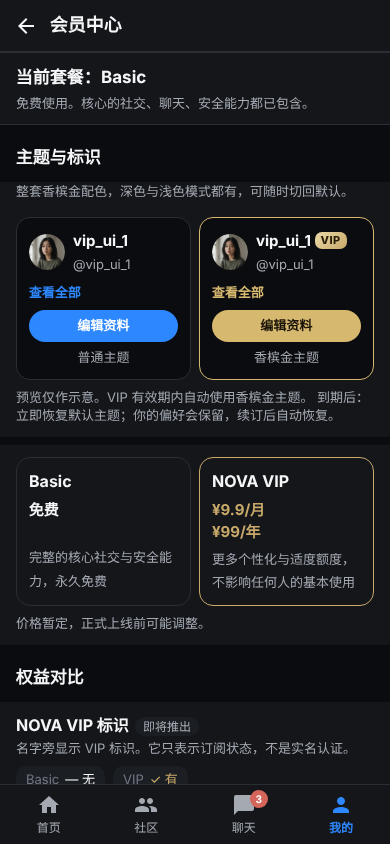
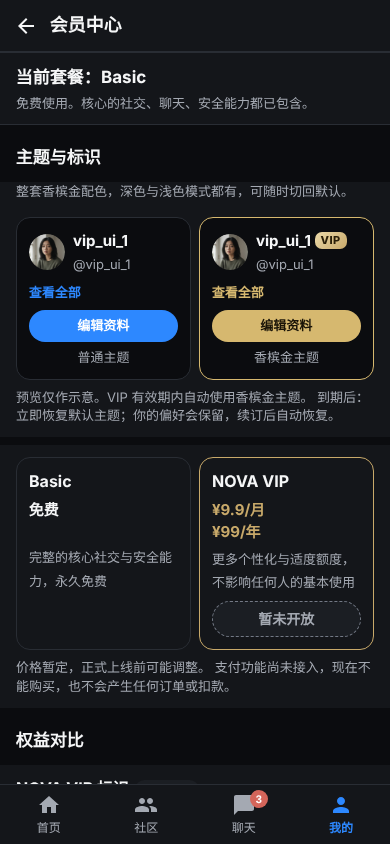
M2.4.6 开通按钮与价格占位
禁用的「暂未开放」；无购买/订单接口；浏览器 14/14、服务端 32/32、前端演示 190/190

diff --git a/dist/nova_v5.html b/dist/nova_v5.html
@@ -48,7 +48,7 @@ small{color:var(--t2);font-size:13px}
 .ppl button{flex:none;width:60px;font-size:12px;color:var(--t2);display:flex;flex-direction:column;align-items:center;gap:4px}
 .ppl .av{outline:2px solid var(--ac);outline-offset:2px}
 .pb{height:44px;padding:0 20px;border-radius:22px;background:var(--ac);color:var(--onac);font-weight:700;flex:none}.pb:active{transform:scale(.97)}
-.pb:disabled{opacity:.4}.pb.s{background:var(--s2);color:var(--tx)}.pb.d{background:var(--dg)}.pb.sm{height:36px;padding:0 14px;font-size:14px}
+.pb:disabled{opacity:.4}.pb.off:disabled{opacity:1;background:var(--s2);color:var(--t2);border:1px dashed var(--t3);width:100%;height:36px;padding:0;margin-top:8px;font-size:14px;cursor:not-allowed}.pb.s{background:var(--s2);color:var(--tx)}.pb.d{background:var(--dg)}.pb.sm{height:36px;padding:0 14px;font-size:14px}
 .inrow{flex:none;display:flex;gap:6px;align-items:center;padding:8px 8px 8px 12px;background:var(--sf);border-top:1px solid var(--ln)}
 .inrow input{flex:1;min-width:0;height:44px;background:var(--s2);border-radius:22px;padding:0 16px}
 .inrow .ib{color:var(--t2)}.nope{flex:none;padding:14px 16px;text-align:center;color:var(--t2);background:var(--sf);border-top:1px solid var(--ln);font-size:14px}
@@ -258,9 +258,12 @@ function vipStatusCard(){
     expired:['VIP 已过期','已于 '+(v.expiredAt?vipDate(v.expiredAt):'—')+' 回到 Basic。你发过、收藏过的内容都还在。'],
     revoked:['VIP 已被撤销','已回到 Basic，你的内容都还在。如有疑问请联系管理员。']}[v.state]||['当前套餐：Basic',''];
   return `<div class="card vp" data-vs="${esc(v.state)}"><b>${esc(T[0])}</b><small>${esc(T[1])}</small></div>`}
+/* 开通按钮（M2.4.6）：支付未接入，永远是不可点的占位。没有 data-a、没有链接、没有表单，点了不会发任何请求，也不会出现「成功」。
+   文字来自服务端目录的 purchase.label，目录缺失时仍按「暂未开放」显示。 */
+const vipBuy=v=>`<button type="button" class="pb off" id="vbuy" disabled aria-disabled="true">${esc(v.purchase&&v.purchase.enabled===false&&v.purchase.label?v.purchase.label:'暂未开放')}</button>`;
 function vipPlans(c){
   const b=c.plans.basic,v=c.plans.vip;
-  return `<div class="plans"><div class="plan" data-plan="basic"><b>${esc(b.name)}</b><div class="pp">免费</div><small>${esc(b.tagline)}</small></div><div class="plan v" data-plan="vip"><b>${esc(v.name)}</b><div class="pp">${v.prices.map(p=>esc(p.label)).join('<br>')}</div><small>${esc(v.tagline)}</small></div></div><p class="vpn">${esc(v.priceNote)}</p>`}
+  return `<div class="plans"><div class="plan" data-plan="basic"><b>${esc(b.name)}</b><div class="pp">免费</div><small>${esc(b.tagline)}</small></div><div class="plan v" data-plan="vip"><b>${esc(v.name)}</b><div class="pp">${v.prices.map(p=>esc(p.label)).join('<br>')}</div><small>${esc(v.tagline)}</small>${vipBuy(v)}</div></div><p class="vpn">${esc(v.priceNote)} ${esc(v.purchase?v.purchase.reason+'，现在不能购买，也不会产生任何订单或扣款。':'')}</p>`}
 function vipCompare(c){
   return `<div class="shd">权益对比</div>`+c.entitlements.map(e=>`<div class="ent" data-ent="${esc(e.key)}"><div class="et"><b>${esc(e.title)}</b>${e.status==='live'?'':'<span class="tag">即将推出</span>'}<small>${esc(e.description)}</small></div><div class="ev"><span data-p="basic"><i>Basic</i>${esc(vipFmt(e,'basic'))}</span><span class="v" data-p="vip"><i>VIP</i>${esc(vipFmt(e,'vip'))}</span></div></div>`).join('')}
 function vipRules(c){

diff --git a/src/13_vip.js b/src/13_vip.js
@@ -50,9 +50,12 @@ function vipStatusCard(){
     expired:['VIP 已过期','已于 '+(v.expiredAt?vipDate(v.expiredAt):'—')+' 回到 Basic。你发过、收藏过的内容都还在。'],
     revoked:['VIP 已被撤销','已回到 Basic，你的内容都还在。如有疑问请联系管理员。']}[v.state]||['当前套餐：Basic',''];
   return `<div class="card vp" data-vs="${esc(v.state)}"><b>${esc(T[0])}</b><small>${esc(T[1])}</small></div>`}
+/* 开通按钮（M2.4.6）：支付未接入，永远是不可点的占位。没有 data-a、没有链接、没有表单，点了不会发任何请求，也不会出现「成功」。
+   文字来自服务端目录的 purchase.label，目录缺失时仍按「暂未开放」显示。 */
+const vipBuy=v=>`<button type="button" class="pb off" id="vbuy" disabled aria-disabled="true">${esc(v.purchase&&v.purchase.enabled===false&&v.purchase.label?v.purchase.label:'暂未开放')}</button>`;
 function vipPlans(c){
   const b=c.plans.basic,v=c.plans.vip;
-  return `<div class="plans"><div class="plan" data-plan="basic"><b>${esc(b.name)}</b><div class="pp">免费</div><small>${esc(b.tagline)}</small></div><div class="plan v" data-plan="vip"><b>${esc(v.name)}</b><div class="pp">${v.prices.map(p=>esc(p.label)).join('<br>')}</div><small>${esc(v.tagline)}</small></div></div><p class="vpn">${esc(v.priceNote)}</p>`}
+  return `<div class="plans"><div class="plan" data-plan="basic"><b>${esc(b.name)}</b><div class="pp">免费</div><small>${esc(b.tagline)}</small></div><div class="plan v" data-plan="vip"><b>${esc(v.name)}</b><div class="pp">${v.prices.map(p=>esc(p.label)).join('<br>')}</div><small>${esc(v.tagline)}</small>${vipBuy(v)}</div></div><p class="vpn">${esc(v.priceNote)} ${esc(v.purchase?v.purchase.reason+'，现在不能购买，也不会产生任何订单或扣款。':'')}</p>`}
 function vipCompare(c){
   return `<div class="shd">权益对比</div>`+c.entitlements.map(e=>`<div class="ent" data-ent="${esc(e.key)}"><div class="et"><b>${esc(e.title)}</b>${e.status==='live'?'':'<span class="tag">即将推出</span>'}<small>${esc(e.description)}</small></div><div class="ev"><span data-p="basic"><i>Basic</i>${esc(vipFmt(e,'basic'))}</span><span class="v" data-p="vip"><i>VIP</i>${esc(vipFmt(e,'vip'))}</span></div></div>`).join('')}
 function vipRules(c){

diff --git a/src/00_head.html b/src/00_head.html
@@ -48,7 +48,7 @@ small{color:var(--t2);font-size:13px}
 .ppl button{flex:none;width:60px;font-size:12px;color:var(--t2);display:flex;flex-direction:column;align-items:center;gap:4px}
 .ppl .av{outline:2px solid var(--ac);outline-offset:2px}
 .pb{height:44px;padding:0 20px;border-radius:22px;background:var(--ac);color:var(--onac);font-weight:700;flex:none}.pb:active{transform:scale(.97)}
-.pb:disabled{opacity:.4}.pb.s{background:var(--s2);color:var(--tx)}.pb.d{background:var(--dg)}.pb.sm{height:36px;padding:0 14px;font-size:14px}
+.pb:disabled{opacity:.4}.pb.off:disabled{opacity:1;background:var(--s2);color:var(--t2);border:1px dashed var(--t3);width:100%;height:36px;padding:0;margin-top:8px;font-size:14px;cursor:not-allowed}.pb.s{background:var(--s2);color:var(--tx)}.pb.d{background:var(--dg)}.pb.sm{height:36px;padding:0 14px;font-size:14px}
 .inrow{flex:none;display:flex;gap:6px;align-items:center;padding:8px 8px 8px 12px;background:var(--sf);border-top:1px solid var(--ln)}
 .inrow input{flex:1;min-width:0;height:44px;background:var(--s2);border-radius:22px;padding:0 16px}
 .inrow .ib{color:var(--t2)}.nope{flex:none;padding:14px 16px;text-align:center;color:var(--t2);background:var(--sf);border-top:1px solid var(--ln);font-size:14px}

diff --git a/docs/spec/07_总项目表_含子步骤.md b/docs/spec/07_总项目表_含子步骤.md
@@ -18,7 +18,7 @@
 | M2.4.3 | 会员中心页面：Basic/VIP 对比、套餐介绍、权益说明 | 页面数据来自配置/API，不硬编码用户身份 | ✅ 会员中心页面：状态/套餐/权益对比，数据来自 API；浏览器测试 4 项 + 原 190 项前端测试全绿 |
 | M2.4.4 | 测试模式切换：仅开发环境允许 VIP/普通模式切换，并由服务端校验开关 | 生产环境隐藏且拒绝测试切换；普通用户不能伪造 VIP | ✅ 仅 NOVA_ENV=development 开启；生产隐藏且 403；不改动正式 VIP；服务端 32/32、浏览器 7/7 |
 | M2.4.5 | 香槟金 VIP 主题、会员标识和个人资料预览 | 切换即时生效；普通模式恢复原主题；不影响可读性和无障碍 | ✅ 香槟金主题（深/浅色）+ VIP 标识 + 会员中心资料预览；切换即时生效、切回恢复原蓝色；WCAG 对比度 ≥4.5 有自动检查；服务端 32/32、浏览器 11/11、前端演示 190/190 |
-| M2.4.6 | 开通按钮与价格占位 | 显示“暂未开放/支付未接入”；不得出现假成功、假订单或真实收款入口 | ⏳ |
+| M2.4.6 | 开通按钮与价格占位 | 显示“暂未开放/支付未接入”；不得出现假成功、假订单或真实收款入口 | ✅ 禁用的「暂未开放」按钮 + 「价格暂定 / 支付尚未接入 / 不产生订单或扣款」；点击不发请求；服务端无购买/订单接口与订单表；浏览器 14/14、服务端 32/32、前端演示 190/190 |
 | M2.4.7 | VIP 状态边界测试 | 未开通、有效、即将到期、已过期、管理员手动撤销均正确 | ⏳ |
 | M2.5.1 | 建立服务端统一权益检查器 requireEntitlement | 所有 VIP 专属接口在服务端鉴权；仅隐藏前端按钮不算权限校验 | ⏳ |
 | M2.5.2 | NOVA VIP 标识、个人资料主题/边框/装饰 | 服务端返回有效权益才展示；到期立即回落 | ⏳ 主题与自己的标识已在 M2.4.5 做完；本步剩下头像金边/主页装饰，以及「别人看到你的标识」（要等 M4 动态联网） |

diff --git a/CHANGELOG.md b/CHANGELOG.md
@@ -1,5 +1,12 @@
 # 更新日志（最新在上）
 
+## V7 M2.4.6 · 开通按钮与价格占位（2026-11-12）
+- VIP 套餐卡里新增禁用的「暂未开放」按钮；价格下方写明「价格暂定，正式上线前可能调整。支付功能尚未接入，现在不能购买，也不会产生任何订单或扣款。」
+- 按钮没有绑定动作、没有链接、表单或输入框，点击不发任何请求，不会出现「成功」。开发环境也一样（测试开关只是测试，不是购买）。
+- 按钮文字只在目录里支付为关闭时才采用目录文案，否则固定显示「暂未开放」；被改写成「立即购买」的目录也无效（有测试）。
+- 服务端没有任何购买/订单/支付接口（10 个常见路径 × 3 种方法全部 404），数据库没有订单/支付/订阅表；生产环境无任何办法通过接口变成 VIP。
+- 测试：新增 3 项；回归 服务端 32/32、浏览器 14/14、前端演示 190/190。
+
 ## V7 M2.4.5 · 香槟金 VIP 主题、会员标识、资料预览（2026-11-12）
 - 香槟金主题：深色与浅色各一套（深色强调色 `#D6B86F`，浅色 `#7A5A10`）。只有服务端 `/api/vip/me` 返回「VIP 有效」且 `profile_theme_gold` 开启时才会启用；VIP 变化（开通 / 切回普通 / 到期 / 退出登录）后下一次渲染立即换上或恢复，不用刷新。普通模式恢复的是原来的蓝色。
 - 客户端不能自己开启：页面属性、本机数据被改动，下一次渲染也会按服务端状态还原（有测试）。本机偏好只能「关掉」金色，不能「打开」。

diff --git a/server/README.md b/server/README.md
@@ -1,4 +1,4 @@
-# NOVA 后端（M2.4.5）
+# NOVA 后端（M2.4.6）
 启动：`npm run build` 然后 `npm run server`（默认 8787 端口、监听所有网卡，数据库文件 ./nova.db）
 环境变量：`PORT`、`HOST`、`NOVA_DB`、`NOVA_CORS_ORIGIN`、`NOVA_ENV`（默认 production；只有严格等于 `development` 才开启 VIP 测试切换）、`NOVA_VIP_TEST_TOGGLE=0`（在开发环境里再次关闭测试切换）
 本机试用测试切换：`npm run dev`（等于 `NOVA_ENV=development npm run server`）；对外给朋友用请用 `npm run server`。
